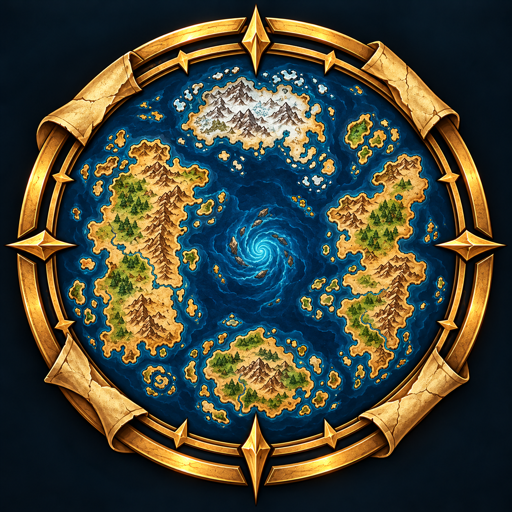
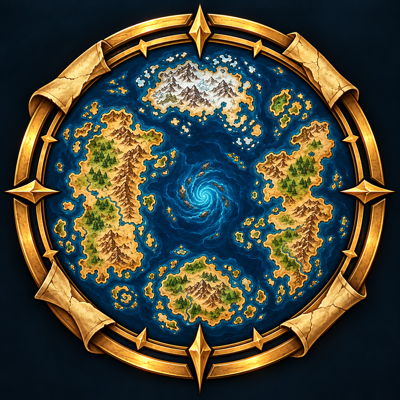
Prepare CurseForge release package

diff --git a/docs/CURSEFORGE.md b/docs/CURSEFORGE.md
@@ -8,6 +8,9 @@
 - Flavor: Retail
 - Channel: Beta
 - Summary: **One seamless Retail world map with cross-zone active quests.**
+- License: Custom (mixed-license terms; use `LICENSE.md`)
+- Source: `https://github.com/IgnazioDS/WorldPane`
+- Issues: `https://github.com/IgnazioDS/WorldPane/issues`
 
 ## Description
 
@@ -41,31 +44,66 @@ Features:
 - Dungeon entrances and maps, flight masters, routes, saved pins, drawing
   tools, exploration controls, and live coverage diagnostics.
 
-WorldPane began from MIT-licensed OpenMap code; required attribution and the
-mixed-license terms are bundled with every release. WorldPane is not affiliated
-with or endorsed by Blizzard Entertainment.
+WorldPane began as a permitted fork of OpenMap `v0.7.1-beta-retail`, published
+by jigrobbulus with source credited to jiforever, under the MIT License. The
+original project is available at
+https://www.curseforge.com/wow/addons/openmap.
+
+Since that baseline, WorldPane has been independently re-engineered with its
+own product identity, settings and API; cross-zone active quest markers;
+multi-world navigation and live zone previews; native Voidstorm and Harandar
+transitions; a new motion and visual system; and a current-Retail validation and
+release workflow. Required attribution, the original MIT notice, and the exact
+mixed-license boundary are bundled with every release.
+
+The WorldPane project icon is original AI-assisted artwork created for this
+project. It is not a Blizzard asset or a gameplay screenshot. WorldPane is not
+affiliated with or endorsed by Blizzard Entertainment.
 
 ## Beta notes
 
 - A quest without a usable current waypoint cannot be placed.
 - Voidstorm and Harandar use Blizzard's native canvas because they do not share
   the stitched Azeroth coordinate space.
-- The archive includes a tiny load-on-demand helper that migrates settings from
-  the previous package identity; it contains no map implementation.
+- The public archive contains one `WorldPane/` addon root. The legacy settings
+  bridge remains only in the source repository for pre-release development
+  installs.
+
+## File changelog
+
+Paste this into the `0.3.0-beta.4` file upload:
+
+> **WorldPane 0.3.0-beta.4**
+>
+> - Adds one continuous Retail map from cosmic view through continents, zones,
+>   cities, caves, and dungeons.
+> - Adds cross-zone active quest markers with watched, ready, campaign,
+>   recurring, legendary, calling, important, meta, and super-tracked states.
+> - Adds live detailed previews and deeper zoom for Outland, Draenor, and other
+>   non-Azeroth world spaces.
+> - Opens Voidstorm and Harandar on Blizzard's coordinate-correct native maps.
+> - Introduces responsive map chrome, continuous damped zoom, distance-aware
+>   navigation, calmer labels, and optional parchment atmosphere.
+> - Adds `/wpaudit` coverage diagnostics for Retail map-data changes.
+> - Introduces the original WorldPane Azeroth emblem for the addon and project
+>   avatar.
 
 ## Release checklist
 
 - Confirm the name and slug remain available.
-- Upload `docs/assets/worldpane-icon.png` as the project icon.
+- Select **Custom License** and use the mixed-license statement from
+  `LICENSE.md`; do not label the entire project as MIT.
+- Upload the 400 x 400 PNG at `docs/assets/worldpane-icon.png` as the project
+  avatar.
 - Run `make check` and `make package`.
 - Install the exact generated zip into a clean Retail profile.
 - Test login, `/reload`, windowed and maximized map modes, zoom, pan, cosmic
   navigation, quest progress, quest turn-in, super-tracking, city alignment,
-  native transitions, and saved-settings migration.
+  and native transitions.
 - Test without other addons, then with common pin providers.
 - Upload `dist/WorldPane-0.3.0-beta.4.zip` as a Beta file.
 - Publish the source, `NOTICE.md`, and license files with the release.
 
-The installable archive must contain both `WorldPane/` and the load-on-demand
-`AtlasContinuum/` settings-migration helper. The latter is a compatibility
-folder, not the public product name.
+The installable archive must contain exactly one top-level folder named
+`WorldPane/`. The folder name intentionally has no version suffix and matches
+the addon's `.toc` filename.

diff --git a/README.md b/README.md
@@ -36,14 +36,14 @@ API, inter-addon protocol, validation, packaging, and support workflow.
   after WorldPane's first stitched-map build.
 - Targeted current-Retail policies improve Quel'Thalas overlap and Silvermoon
   close-up rendering.
-- Existing settings from the previous package identity migrate automatically.
+- Development installs retain a one-time bridge for settings from the previous
+  package identity; the public release is a clean, single-addon install.
 
 ## Install
 
 Extract the release archive into `_retail_/Interface/AddOns/`. The archive
-contains the `WorldPane` addon and a tiny load-on-demand migration helper. Enable
-**WorldPane**, open the map with `M`, and use `/wpaudit` after major Retail
-patches to check map-data coverage.
+contains one `WorldPane` folder. Enable **WorldPane**, open the map with `M`, and
+use `/wpaudit` after major Retail patches to check map-data coverage.
 
 ## Commands
 
@@ -71,7 +71,8 @@ links both package folders into a detected Retail client; pass
 
 WorldPane is a mixed-license project: the historical MIT foundation remains
 MIT, while original work after the documented boundary is All Rights Reserved.
-WorldPane began from MIT-licensed OpenMap code; the required notice and exact
-boundary are bundled in [NOTICE.md](NOTICE.md) and [LICENSE.md](LICENSE.md).
-Third-party libraries retain their own licenses. Blizzard map art is not
-licensed by the software licenses.
+WorldPane began as a permitted fork of the MIT-licensed
+[OpenMap](https://www.curseforge.com/wow/addons/openmap) `v0.7.1-beta-retail`
+codebase; the required notice and exact boundary are bundled in
+[NOTICE.md](NOTICE.md) and [LICENSE.md](LICENSE.md). Third-party libraries retain
+their own licenses. Blizzard map art is not licensed by the software licenses.

diff --git a/NOTICE.md b/NOTICE.md
@@ -1,9 +1,11 @@
 # WorldPane notices and provenance
 
 WorldPane is an independently maintained Retail map addon. It began from the
-MIT-licensed OpenMap `v0.7.1-beta-retail` codebase and the later MIT-licensed
-Atlas Continuum development line. Their required copyright and permission
-notice is preserved in `WorldPane/LICENSES/Legacy-MIT.txt`.
+MIT-licensed OpenMap `v0.7.1-beta-retail` codebase, published by jigrobbulus
+with source credited to jiforever, and the later MIT-licensed Atlas Continuum
+development line. The upstream project is
+<https://www.curseforge.com/wow/addons/openmap>; its required copyright and
+permission notice is preserved in `WorldPane/LICENSES/Legacy-MIT.txt`.
 
 The license boundary for new WorldPane work is commit
 `5e248565f8b75993ecdd15d81a941518f06cc657`; see `LICENSE.md` and the packaged

diff --git a/WorldPane/NOTICE.md b/WorldPane/NOTICE.md
@@ -1,8 +1,10 @@
 # WorldPane notices
 
 WorldPane began from the MIT-licensed OpenMap `v0.7.1-beta-retail` codebase and
-the later MIT-licensed Atlas Continuum development line. The full required MIT
-notice is bundled in `LICENSES/Legacy-MIT.txt`.
+the later MIT-licensed Atlas Continuum development line. OpenMap was published
+by jigrobbulus with source credited to jiforever; its project page is
+<https://www.curseforge.com/wow/addons/openmap>. The full required MIT notice is
+bundled in `LICENSES/Legacy-MIT.txt`.
 
 New WorldPane material after commit
 `5e248565f8b75993ecdd15d81a941518f06cc657` is covered by `LICENSE.txt` unless a

diff --git a/docs/BRAND.md b/docs/BRAND.md
@@ -27,6 +27,7 @@ it for the current Retail build.
 - Supporting tones: ink brown, charcoal, warm parchment, restrained quest gold.
 - Icon: Azeroth—Kalimdor, Eastern Kingdoms, Northrend, Pandaria, and the
   Maelstrom—inside a restrained gold cartographic frame; no legacy initials.
+- CurseForge avatar: 400 x 400 PNG derived from the original square source.
 - UI: preserve Blizzard's map language while using responsive hierarchy,
   restrained staged motion, precise alignment, strong focus states, and
   consistent component feedback.
